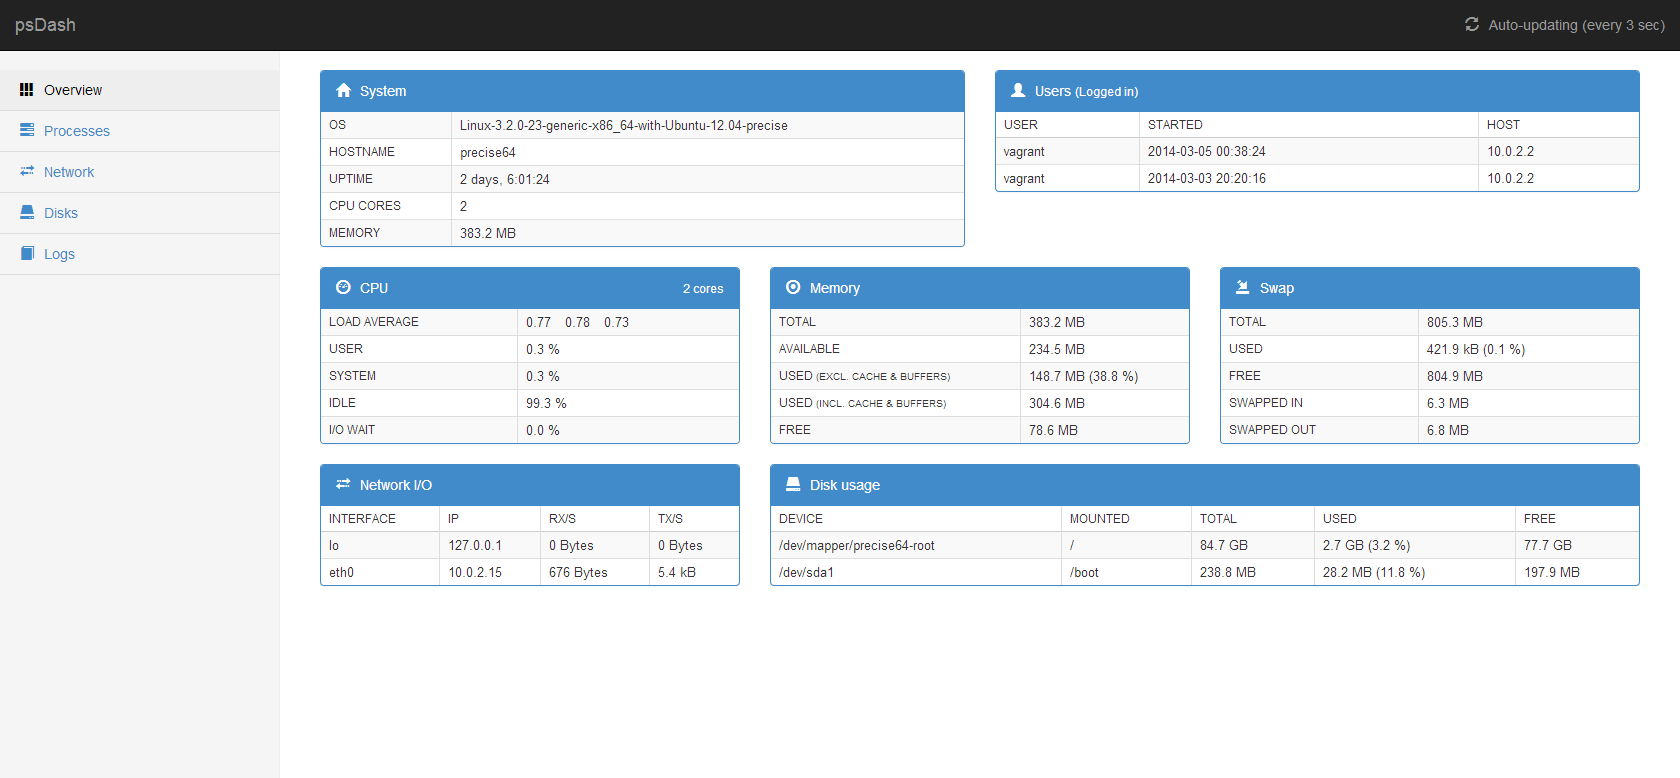
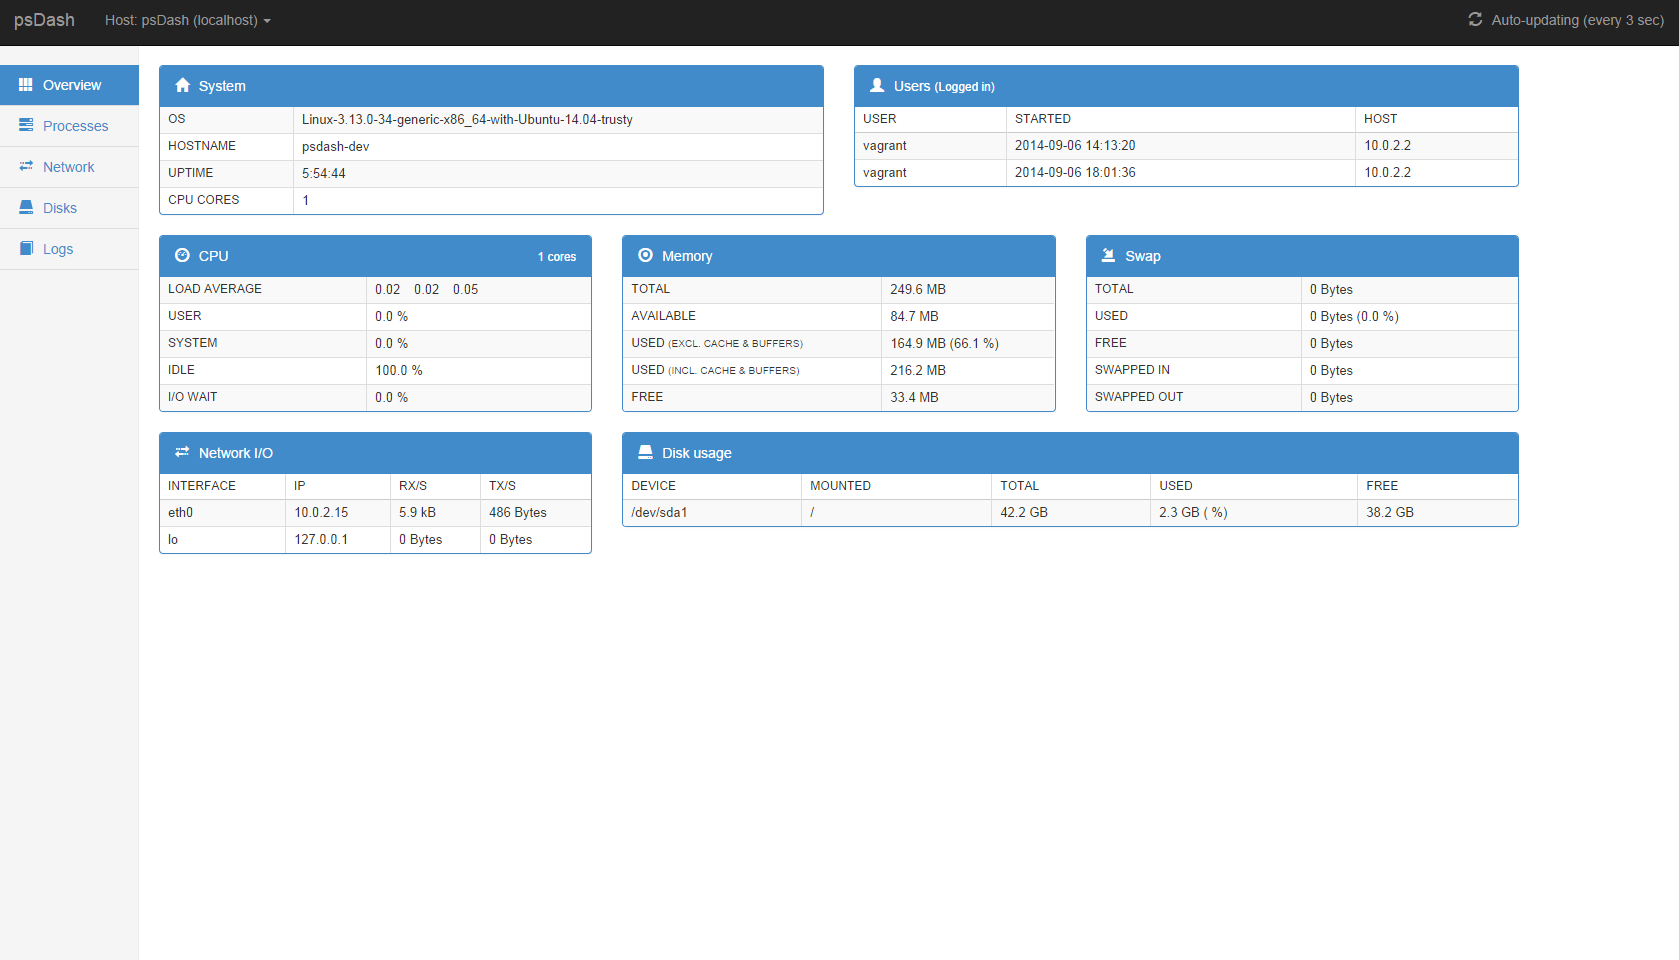
Updated readme and screenshots

diff --git a/README.md b/README.md
@@ -5,7 +5,15 @@
 
 psdash is a system information web dashboard for linux using data mainly served by [psutil](https://code.google.com/p/psutil/) - hence the name.
 
-Features includes:
+* [Features](#features)
+* [Installation](#installation)
+* [Getting started](#getting-started)
+* [Configuration](#configuration)
+* [Screenshots](#screenshots)
+* [License](#license)
+
+## Features
+
 * **Overview**<br>
   Dashboard overview of the system displaying data on cpu, disks, network, users, memory, swap and network.
 * **Processes**<br>
@@ -126,8 +134,12 @@ Overview of a process:
 ![Process overview](docs/screenshots/process_overview.png)
 Connections of a process:
 ![Process connections](docs/screenshots/process_connections.png)
-Network interfaces:
+Environment of a process:
+![Process environment](docs/screenshots/process_environment.png)
+Network:
 ![Network](docs/screenshots/network.png)
+Disks:
+![Network](docs/screenshots/disks.png)
 Tailing a log:
 ![Log](docs/screenshots/log.png)
 Searching a log:
